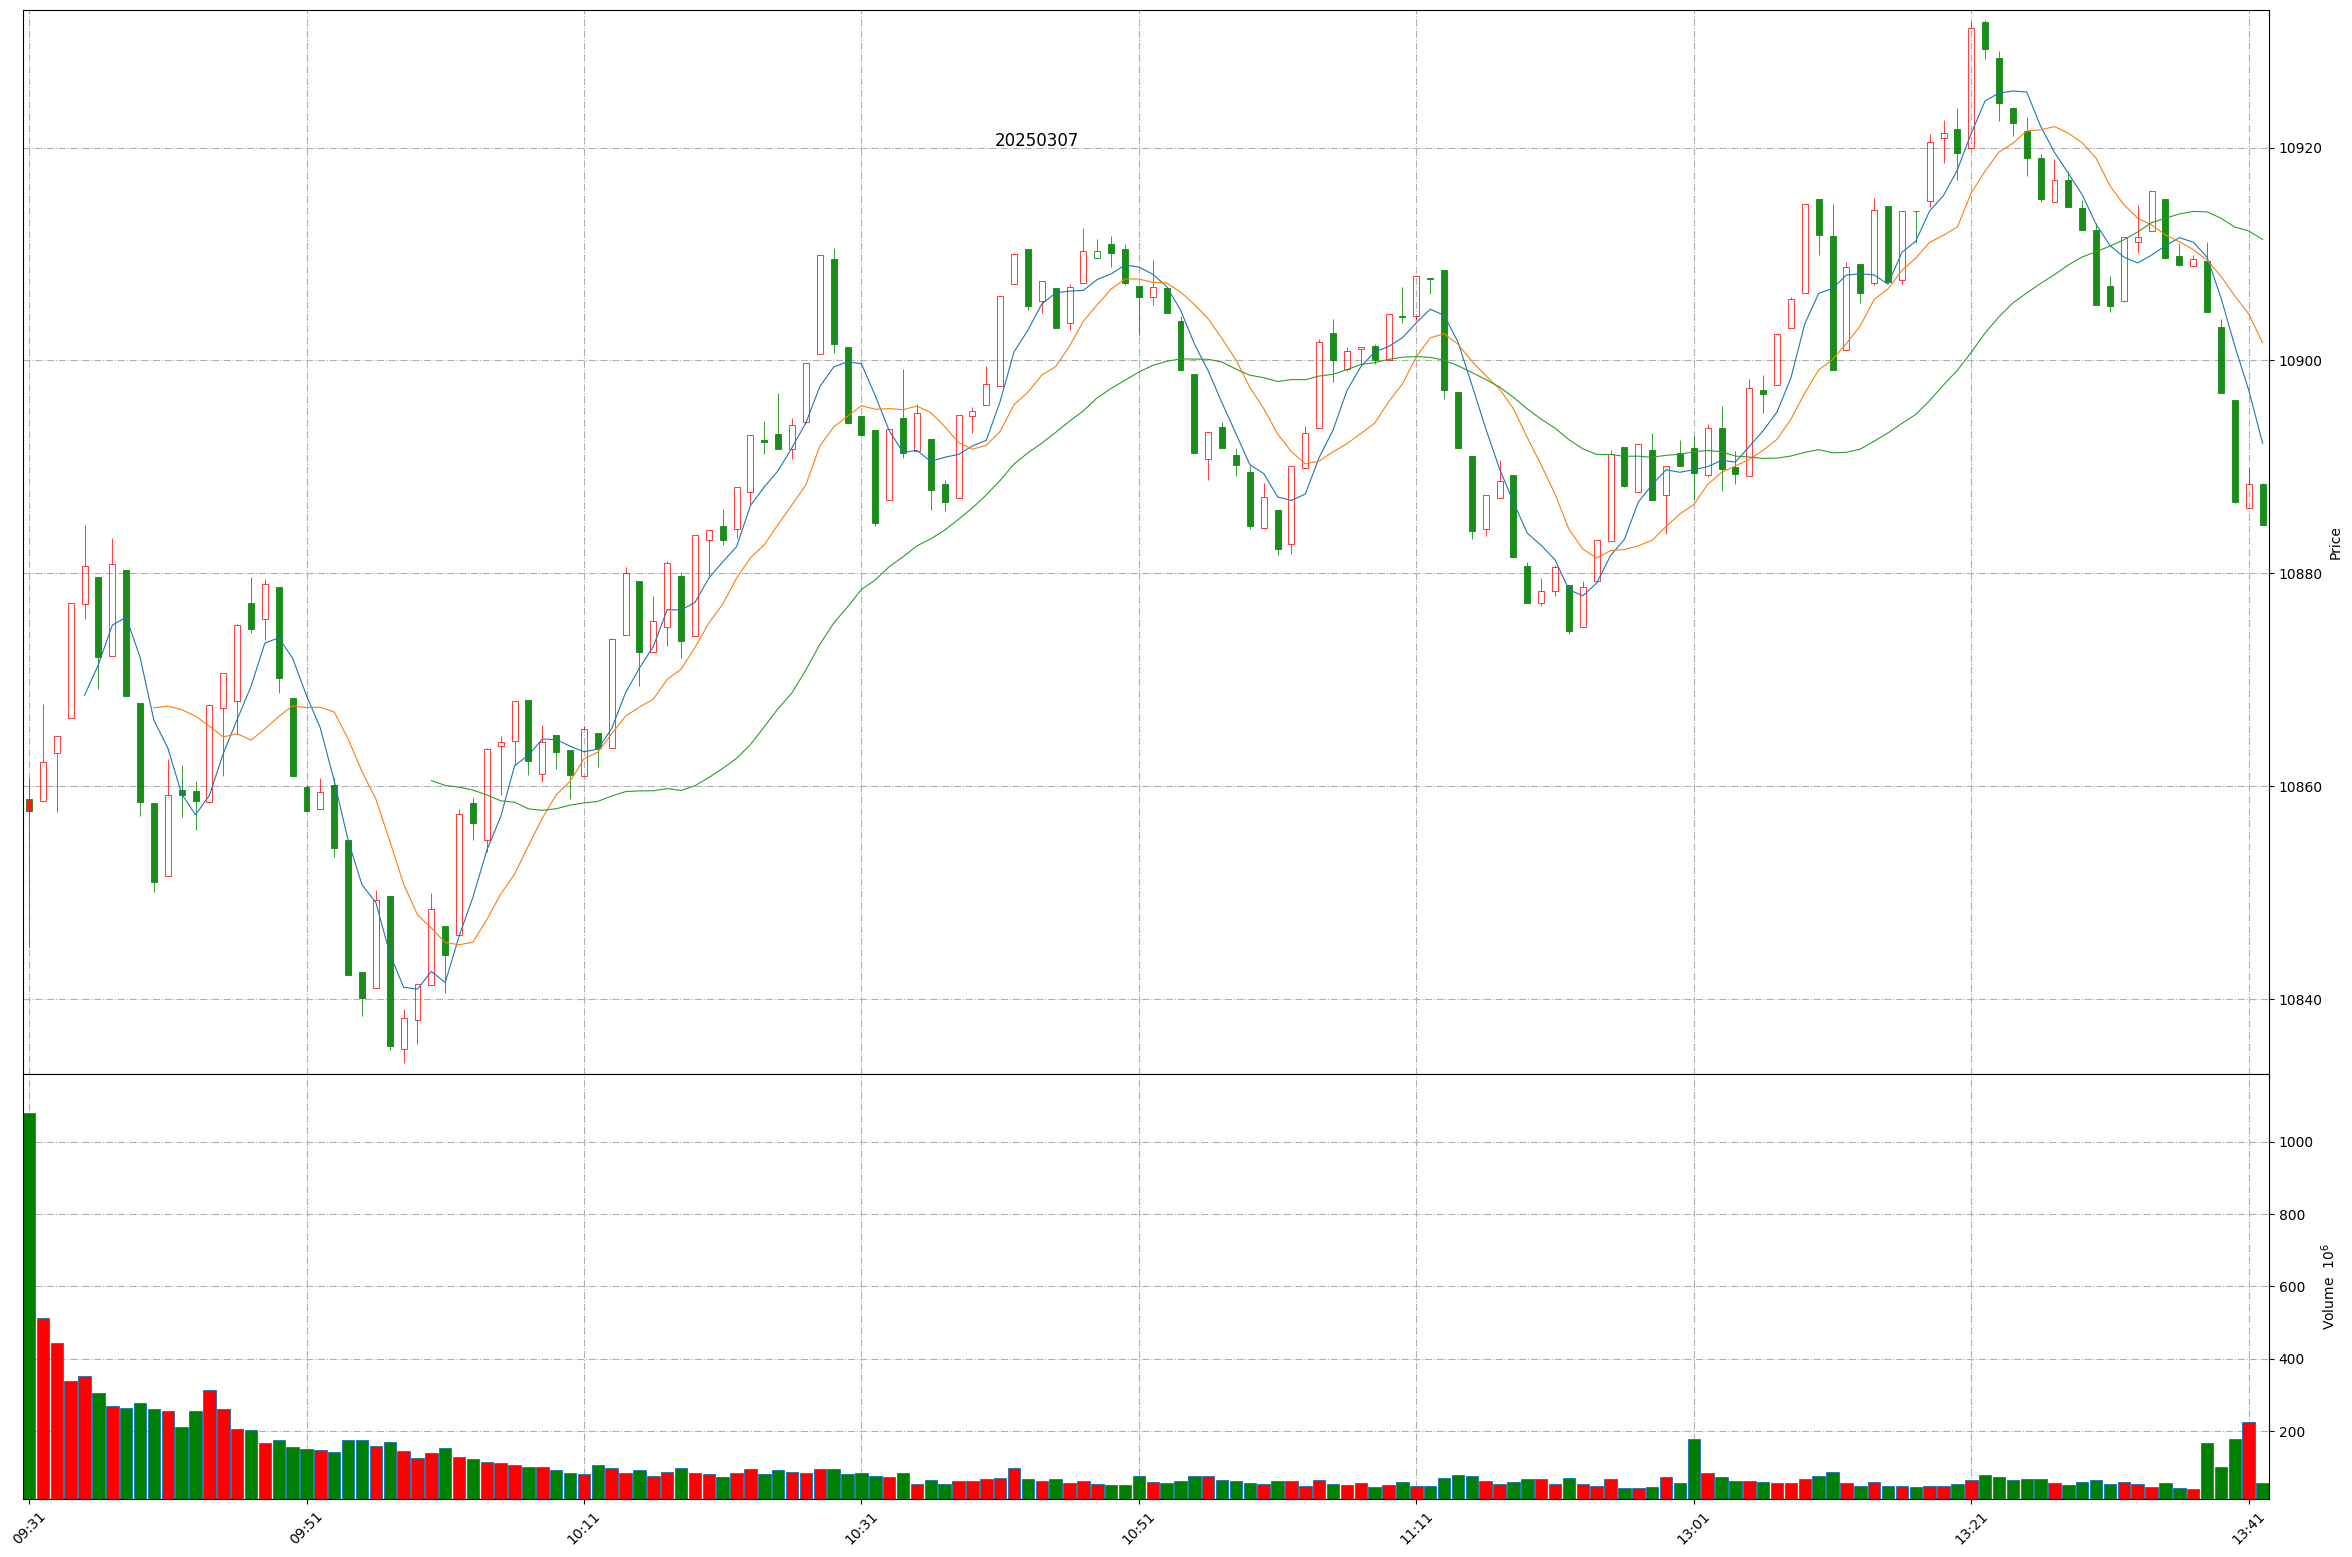
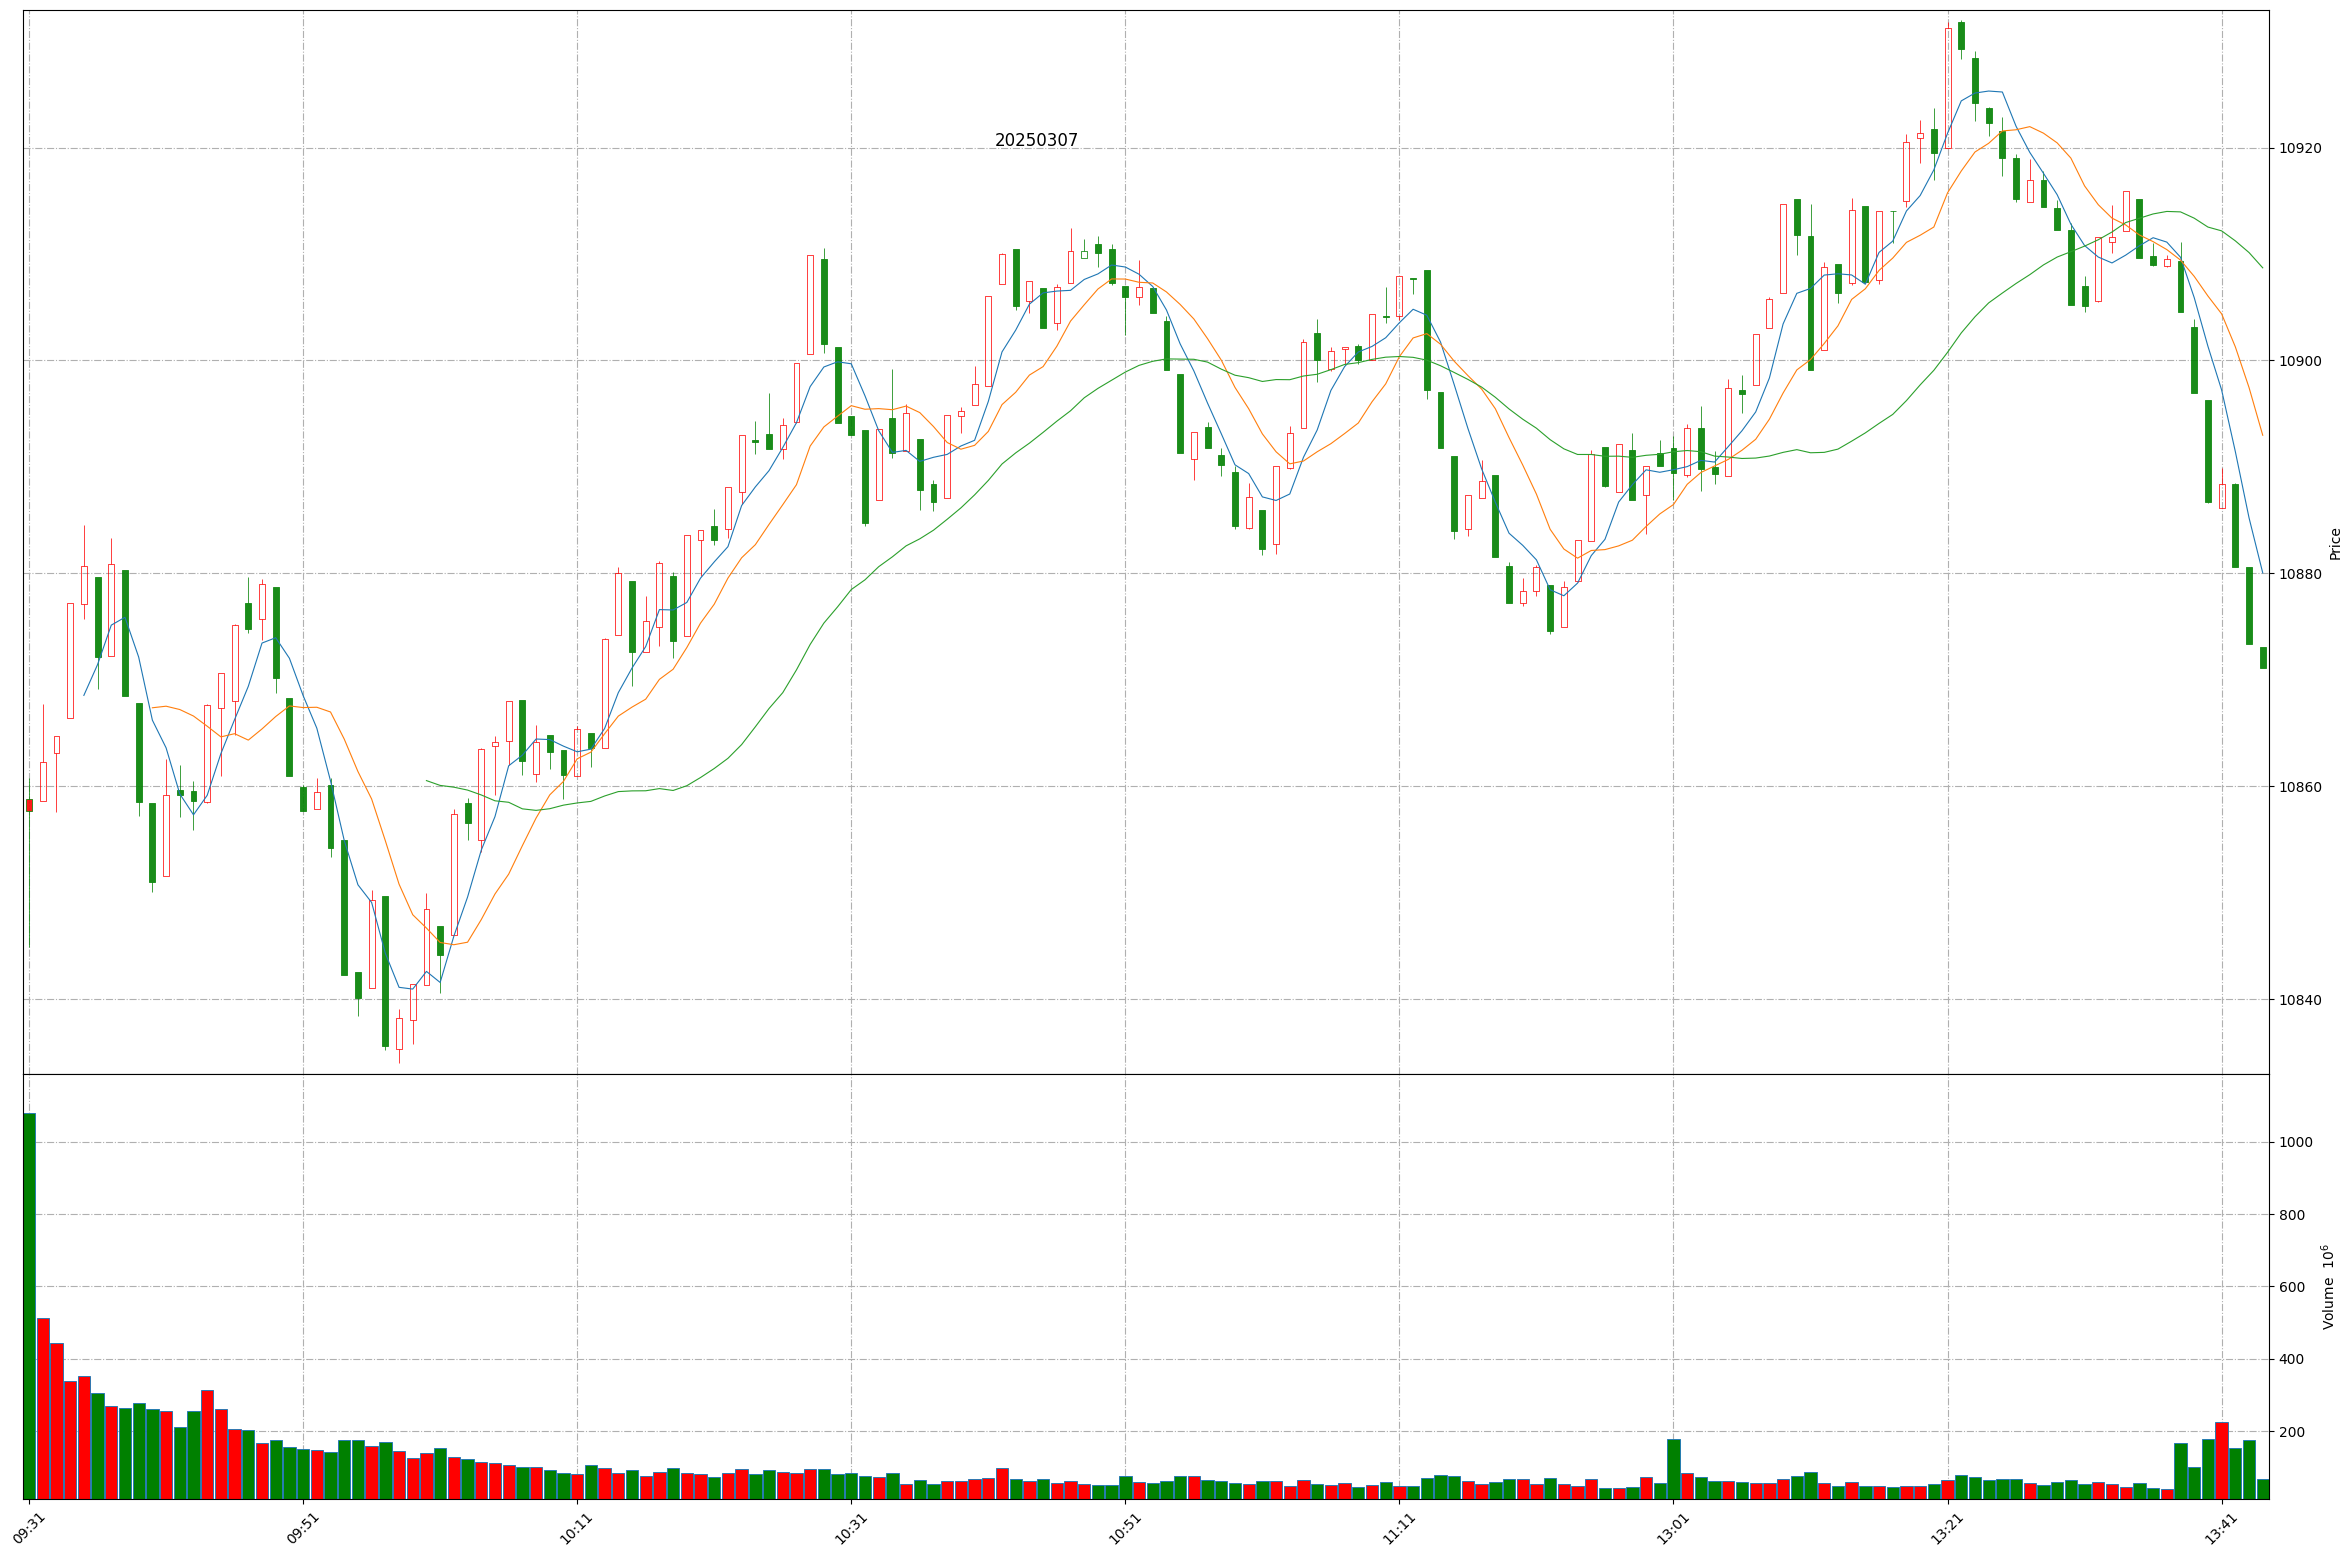
Github action update at 2025-03-07 13:43:37.

diff --git a/README.md b/README.md
@@ -1,11 +1,11 @@
 
 # Daily-A-share-market-quotes 每日 A 股指数（5min 更新）- 20250307
 
-### 上证指数 20250307 13:41
+### 上证指数 20250307 13:43
 ![](./fig/2025/3/20250307-sh000001.png)
 
-### 深证成指 20250307 13:41
+### 深证成指 20250307 13:43
 ![](./fig/2025/3/20250307-sz399001.png)
 
-### 北证50 20250307 13:41
+### 北证50 20250307 13:43
 ![](./fig/2025/3/20250307-bj899050.png)
